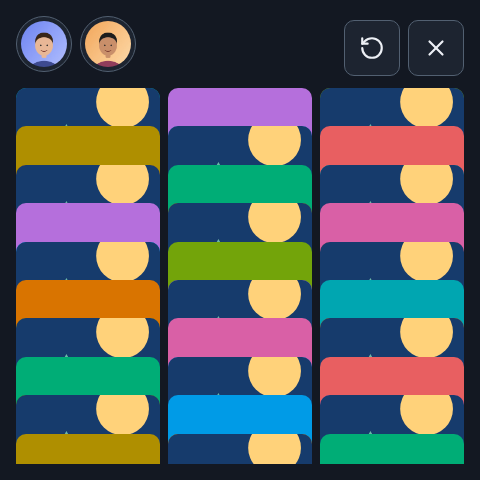
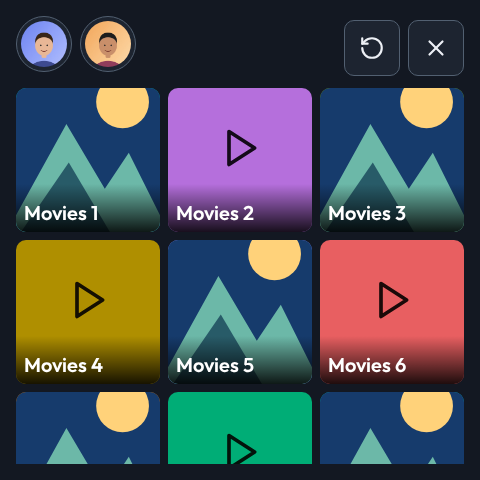
Measure square grid tracks and reject overlapping queue tiles

diff --git a/packages/slatecast/src/platform/QueuePicker.tsx b/packages/slatecast/src/platform/QueuePicker.tsx
@@ -102,6 +102,24 @@ export const QueuePicker = ({
   ) => Promise<void>
 }) => {
   const list = useRef<HTMLFieldSetElement>(null)
+  const [listWidth, setListWidth] = useState(448)
+  const columns = Math.max(
+    1,
+    Math.floor((listWidth + 8) / 138),
+  )
+  const tileSize = Math.max(
+    1,
+    (listWidth - (columns - 1) * 8) / columns,
+  )
+  useEffect(() => {
+    const element = list.current
+    if (!element) return
+    const observer = new ResizeObserver(() =>
+      setListWidth(element.clientWidth),
+    )
+    observer.observe(element)
+    return () => observer.disconnect()
+  }, [])
   const lastTouch = useRef(0)
   const [error, setError] = useState("")
   const isVisible = useCompositionVisibility()
@@ -220,6 +238,10 @@ export const QueuePicker = ({
       <fieldset
         class="queue-picker-list"
         ref={list}
+        style={{
+          gridTemplateColumns: `repeat(${columns}, minmax(0, 1fr))`,
+          gridAutoRows: `${tileSize}px`,
+        }}
         aria-label="Queues"
         data-castkit-target={`scroll:queues:${data.sessionId}:${data.revision}`}
         data-castkit-scroll="true"

diff --git a/e2e/queueChooser.spec.ts b/e2e/queueChooser.spec.ts
@@ -122,6 +122,25 @@ sizes.forEach((size) => {
       "true",
     )
     await expect(choices).toHaveCount(30)
+    const boxes = await choices.evaluateAll((elements) =>
+      elements.map((element) => {
+        const r = element.getBoundingClientRect()
+        return {
+          top: r.top,
+          bottom: r.bottom,
+          left: r.left,
+          right: r.right,
+        }
+      }),
+    )
+    for (let index = 1; index < boxes.length; index++) {
+      const current = boxes[index]!
+      const previous = boxes[index - 1]!
+      expect(
+        current.left >= previous.right - 1 ||
+          current.top >= previous.bottom - 1,
+      ).toBe(true)
+    }
     if (size === "square") {
       const fullRows = await list.evaluate((element) => {
         const bounds = element.getBoundingClientRect()
